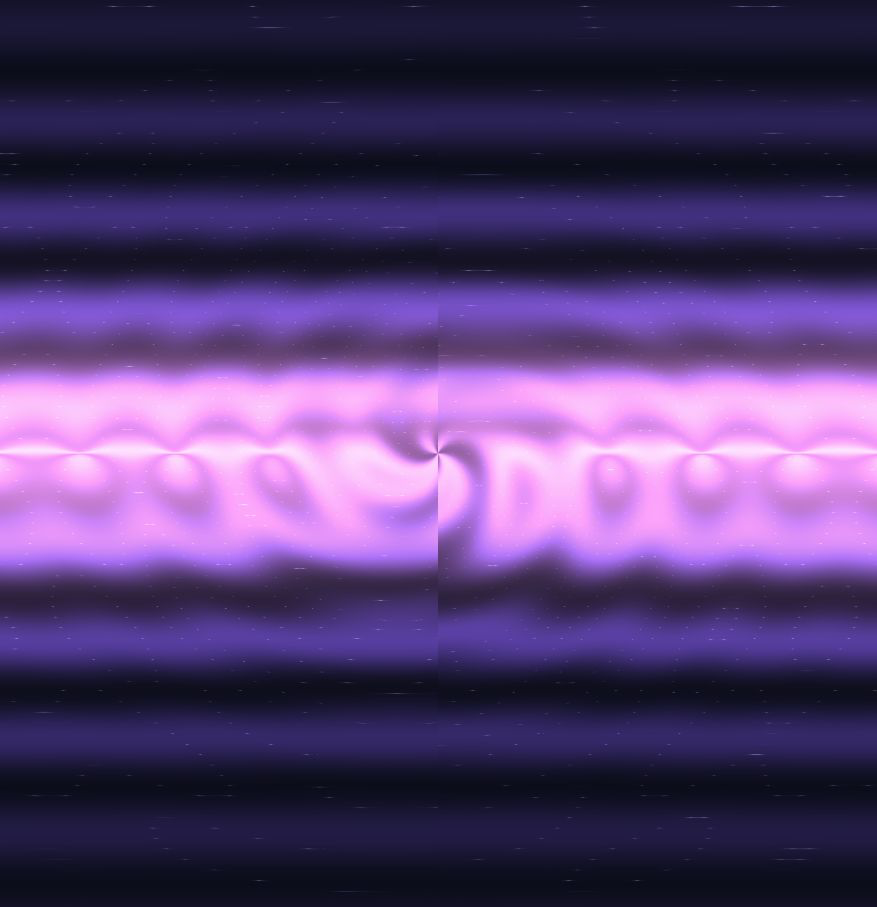
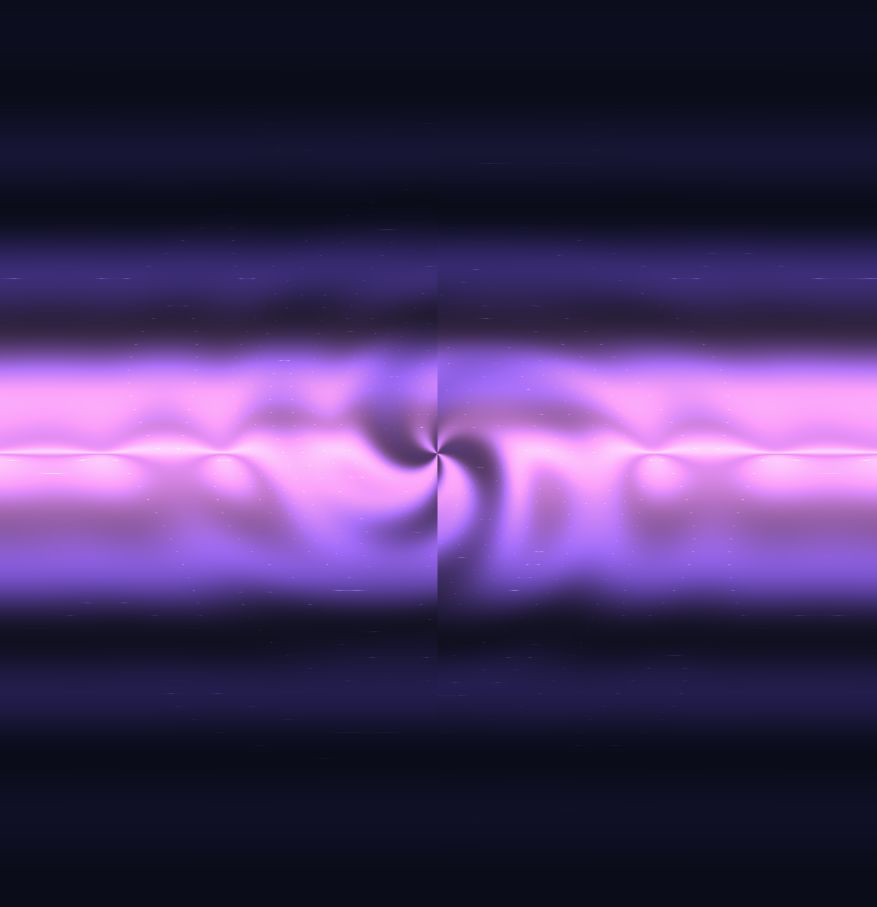
Update landing visuals and blank launch

diff --git a/index.html b/index.html
@@ -10,22 +10,22 @@
     />
     <meta name="robots" content="index, follow" />
     <link rel="canonical" href="https://potatovender.github.io/Lepton-GRE/" />
-    <link rel="icon" href="./src/assets/lepton-logo.png" type="image/png" />
-    <link rel="apple-touch-icon" href="./src/assets/lepton-logo.png" />
+    <link rel="icon" href="./src/assets/lepton-logo-transparent.png" type="image/png" />
+    <link rel="apple-touch-icon" href="./src/assets/lepton-logo-transparent.png" />
     <meta property="og:title" content="Lepton" />
     <meta property="og:description" content="Create dense mathematical field art with a precise GLSL renderer and LaTeX-aware workflow." />
     <meta property="og:type" content="website" />
     <meta property="og:url" content="https://potatovender.github.io/Lepton-GRE/" />
-    <meta property="og:image" content="https://potatovender.github.io/Lepton-GRE/src/assets/lepton-logo.png" />
-    <link rel="stylesheet" href="./src/styles.css?v=20260609-angle-icon" />
+    <meta property="og:image" content="https://potatovender.github.io/Lepton-GRE/src/assets/lepton-logo-transparent.png" />
+    <link rel="stylesheet" href="./src/styles.css?v=20260609-blank-galaxy" />
   </head>
   <body class="landing-body">
     <header class="landing-nav" aria-label="Site navigation">
       <a class="landing-brand" href="./">
-        <img src="./src/assets/lepton-logo.png" alt="" />
+        <img src="./src/assets/lepton-logo-transparent.png" alt="" />
         <span>Lepton</span>
       </a>
-      <a class="nav-launch" href="./app.html">Launch Graph</a>
+      <a class="nav-launch" href="./app.html">Launch Blank Graph</a>
     </header>
 
     <main>
@@ -36,16 +36,17 @@
           <p class="hero-text">
             Lepton turns equations, recursive fields, color functions, and bounds into full-screen mathematical renders with a syntax path built for serious experimentation.
           </p>
-          <a class="hero-cta" href="./app.html">Launch Graph</a>
+          <a class="hero-cta" href="./app.html">Launch Blank Graph</a>
         </div>
         <div class="hero-visual" aria-label="Lepton renderer preview">
           <div class="field-preview">
-            <img src="./src/assets/hero-field.png" alt="A high-detail mathematical render preview" />
+            <img src="./src/assets/sample-mandelbrot.png" alt="A Mandelbrot set render preview" />
             <div class="field-grid" aria-hidden="true"></div>
           </div>
           <div class="formula-strip" aria-hidden="true">
-            <span>F:eq~sin(x)+cos(y)</span>
+            <span>F:eq~your_equation</span>
             <span>C:rgb~r~g~b</span>
+            <span>R:rest~rest~0</span>
             <span>D~eq~rgb~rest~0</span>
           </div>
         </div>
@@ -95,6 +96,6 @@
       </section>
     </main>
 
-    <script type="module" src="./src/landing.js?v=20260609-angle-icon"></script>
+    <script type="module" src="./src/landing.js?v=20260609-blank-galaxy"></script>
   </body>
 </html>

diff --git a/src/landing.js b/src/landing.js
@@ -54,14 +54,15 @@ S:y_max~8
 S:max_recursion~40
 S:angle_mode~radians`,
   stars: `F:rad~sqrt(x^2+y^2)
+F:fade~e^(0-rad^2/18)
 F:theta~arctan(y/(x+0.02))
-F:arm~(0.5+0.5*sin(3*theta+2.4*rad))*e^(0-rad^2/85)
-F:core~e^(0-rad^2/9)
-F:spark~e^(0-(abs(sin(11.7*x+2.3*sin(y)))+abs(cos(10.9*y+1.7*sin(x))))/0.055)
-F:eq~arm+core+0.35*spark
-F:r~8+105*arm+240*core+180*spark
-F:g~10+70*arm+150*core+170*spark
-F:b~30+180*arm+230*core+220*spark
+F:swirl~0.5+0.5*sin(3*theta+2.8*rad)
+F:core~e^(0-rad^2/3.5)
+F:spark~e^(0-(abs(sin(12.7*x+2.1*sin(y)))+abs(cos(13.3*y+1.9*sin(x))))/0.045)*fade
+F:eq~fade*swirl+core+0.35*spark
+F:r~5+95*fade*swirl+235*core+175*spark
+F:g~8+65*fade*swirl+145*core+165*spark
+F:b~28+175*fade*swirl+225*core+225*spark
 F:rest~1
 ~~~~~
 C:rgb~r~g~b
@@ -70,8 +71,8 @@ R:rest~rest~0
 ~~~~~
 D~eq~rgb~rest~0
 ~~~~~
-S:x_min~-12
-S:x_max~12
+S:x_min~-8
+S:x_max~8
 S:y_min~-8
 S:y_max~8
 S:max_recursion~40

diff --git a/src/browser-preview-live.js b/src/browser-preview-live.js
@@ -1,14 +1,8 @@
 const DEFAULT_SCENE = {
-  functions: [
-    { id: "eq", expression: "sin(x)+cos(y)" },
-    { id: "r", expression: "128+127*sin(x)" },
-    { id: "g", expression: "128+127*cos(x)" },
-    { id: "b", expression: "180" },
-    { id: "rest", expression: "1" }
-  ],
-  colors: [{ id: "rgb", red: "r", green: "g", blue: "b" }],
-  restrictions: [{ id: "rest", expression: "rest", checkSmaller: false }],
-  draws: [{ equationId: "eq", colorId: "rgb", restrictionId: "rest" }],
+  functions: [],
+  colors: [],
+  restrictions: [],
+  draws: [],
   settings: {
     xMin: -15,
     xMax: 15,

diff --git a/app.html b/app.html
@@ -8,10 +8,10 @@
       name="description"
       content="Launch the Lepton-GRE mathematical grid renderer and function visualizer."
     />
-    <link rel="icon" href="./src/assets/lepton-logo.png" type="image/png" />
-    <link rel="apple-touch-icon" href="./src/assets/lepton-logo.png" />
+    <link rel="icon" href="./src/assets/lepton-logo-transparent.png" type="image/png" />
+    <link rel="apple-touch-icon" href="./src/assets/lepton-logo-transparent.png" />
     <link rel="stylesheet" href="./src/libs/mathquill/style.css" />
-    <link rel="stylesheet" href="./src/styles.css?v=20260609-angle-icon" />
+    <link rel="stylesheet" href="./src/styles.css?v=20260609-blank-galaxy" />
   </head>
   <body>
     <div id="app">
@@ -43,6 +43,6 @@
       </main>
     </div>
     <script src="./src/libs/mathquill/index.global.js"></script>
-    <script type="module" src="./src/browser-preview-live.js?v=20260609-angle-icon"></script>
+    <script type="module" src="./src/browser-preview-live.js?v=20260609-blank-galaxy"></script>
   </body>
 </html>